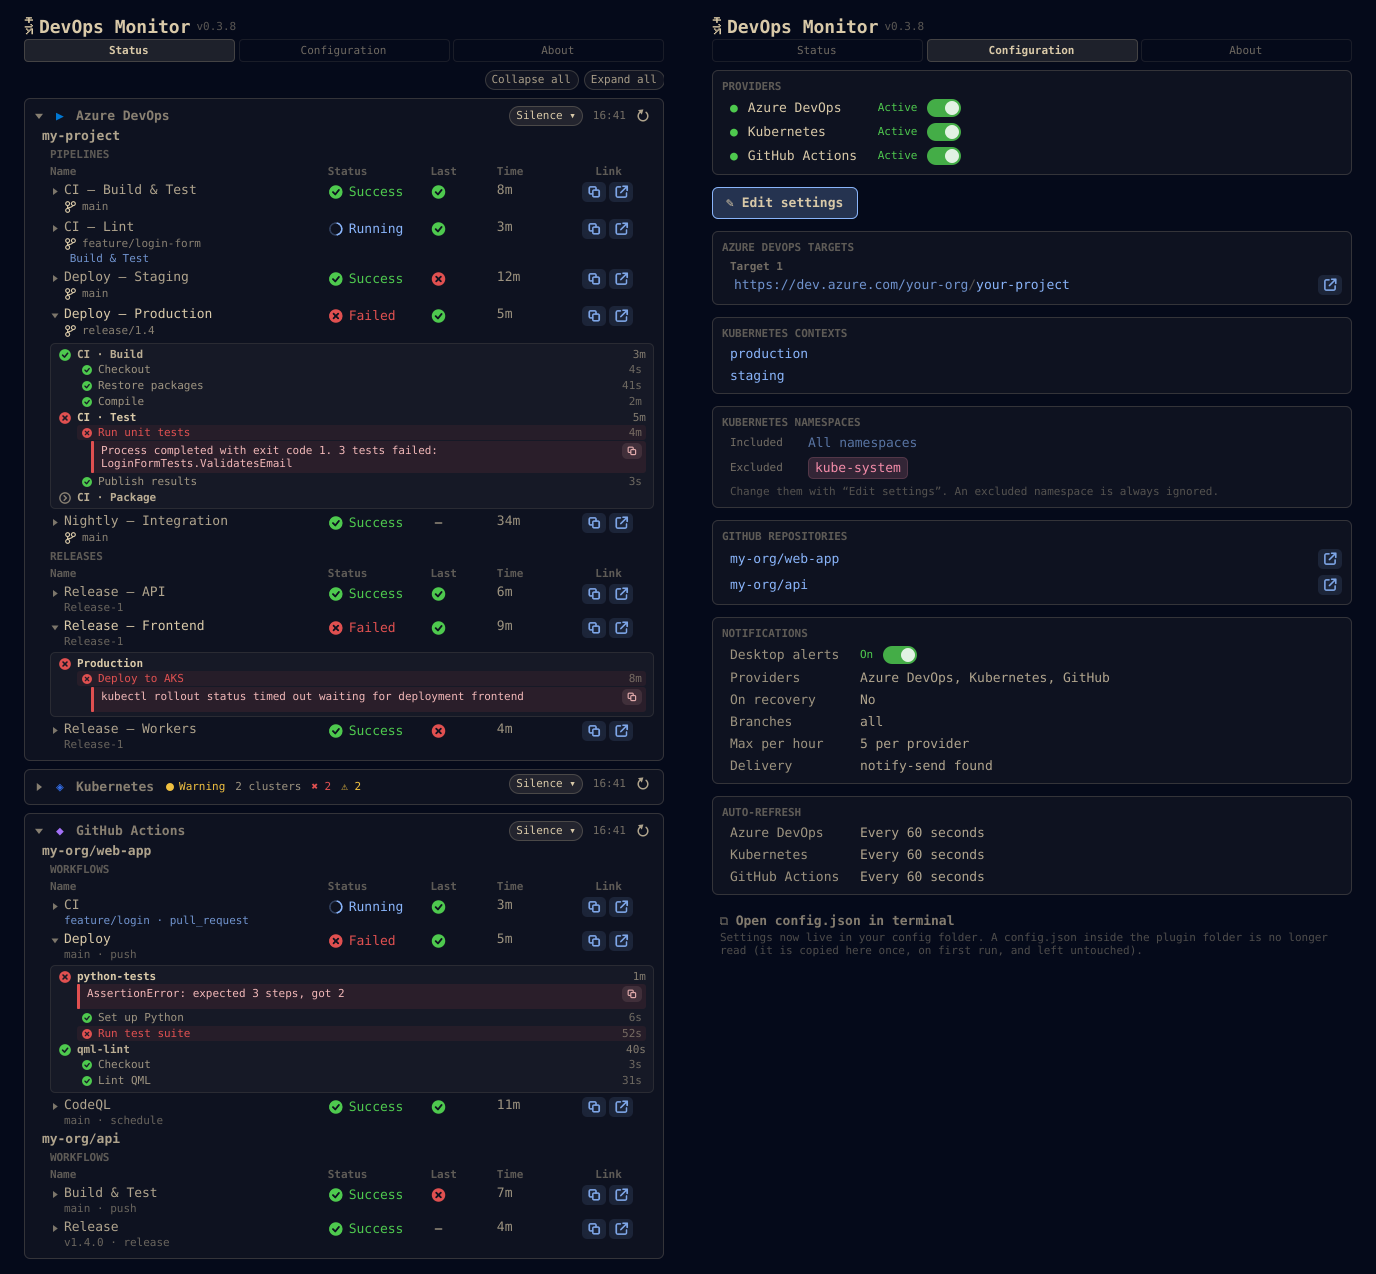
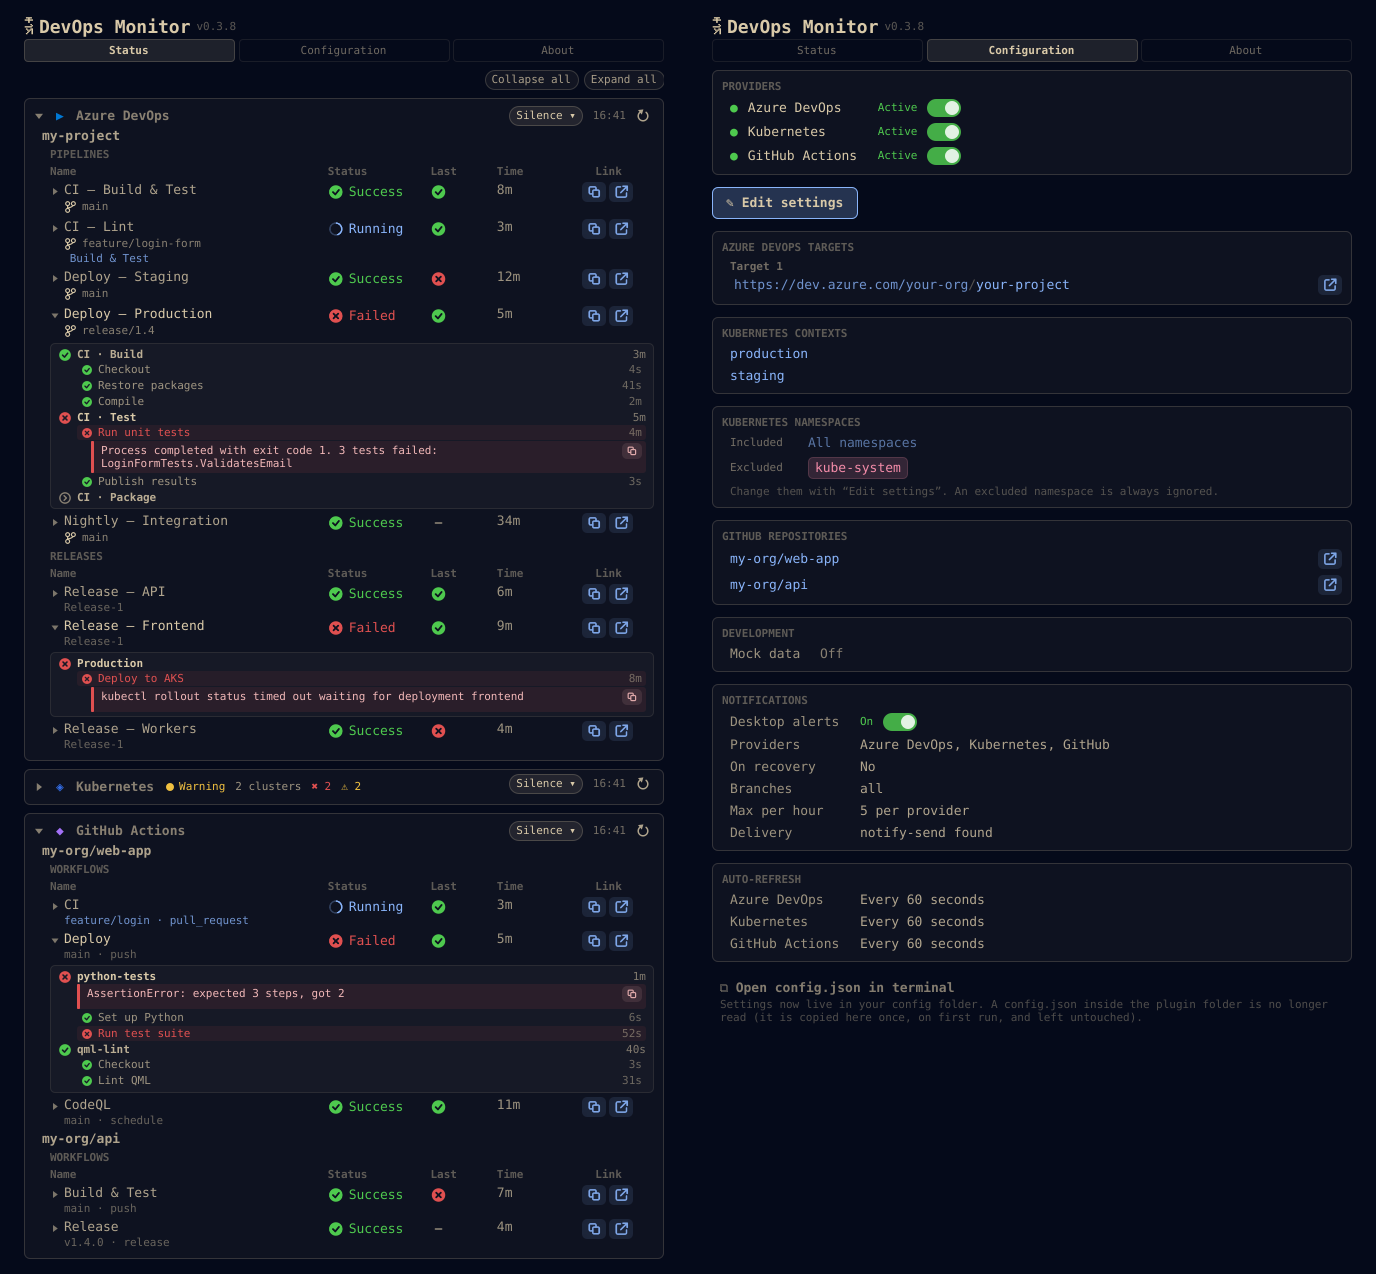
Show whether mock data is on in the read-only Configuration view
Claude-Session: https://claude.ai/code/session_01C5tsGxNbEP2C4eUG67qErP

Changed region(s): [[0.5312, 0.4898, 0.8125, 0.7959]]

diff --git a/Panel.qml b/Panel.qml
@@ -1312,6 +1312,46 @@ Panel {
                         }
                     }
 
+                    // Development: whether mock data is on (change it with Edit settings)
+                    SectionCard {
+                        objectName: "developmentCard"
+                        visible: !configTab.editing
+                        tint: root.barForeground
+                        spacing: Style.space(6)
+
+                        Text {
+                            text: "DEVELOPMENT"
+                            color: root.barForeground
+                            font.family: root.bar ? root.bar.fontFamily : Style.font.family
+                            font.pixelSize: Style.font.caption
+                            font.bold: true
+                            opacity: 0.4
+                        }
+
+                        Row {
+                            leftPadding: Style.space(8)
+                            spacing: Style.space(10)
+                            Text {
+                                textFormat: Text.PlainText
+                                text: "Mock data"
+                                color: root.barForeground
+                                opacity: 0.7
+                                font.family: root.bar ? root.bar.fontFamily : Style.font.family
+                                font.pixelSize: Style.font.body
+                                width: Style.space(80)
+                            }
+                            Text {
+                                objectName: "mockDataValue"
+                                textFormat: Text.PlainText
+                                text: configTab.mockMode ? "On \u2014 sample data, no real services" : "Off"
+                                color: configTab.mockMode ? "#f0c040" : root.barForeground
+                                opacity: configTab.mockMode ? 1.0 : 0.6
+                                font.family: root.bar ? root.bar.fontFamily : Style.font.family
+                                font.pixelSize: Style.font.body
+                            }
+                        }
+                    }
+
                     // Desktop notifications (read-only here; edit notifications in config.json)
                     SectionCard {
                         id: notifyCard

diff --git a/README.md b/README.md
@@ -171,7 +171,7 @@ On the **Configuration** tab, **Edit settings** lets you change, without opening
 - the **Azure DevOps targets** (organization URL + project),
 - the **GitHub repositories** (`owner/repo`),
 - the **Kubernetes contexts** (choose from the ones `kubectl` lists, or *All contexts*) and the **included / excluded namespaces**,
-- **Use mock data** (`development.mockData`): the providers show the sample data of the `mock/` folder and never call `az`, `kubectl` or `gh`. Useful to try the panel; turn it off to see your real services.
+- **Use mock data** (`development.mockData`; the Configuration tab always shows whether it is On or Off in its **Development** card): the providers show the sample data of the `mock/` folder and never call `az`, `kubectl` or `gh`. Useful to try the panel; turn it off to see your real services.
 
 How it works:
 
